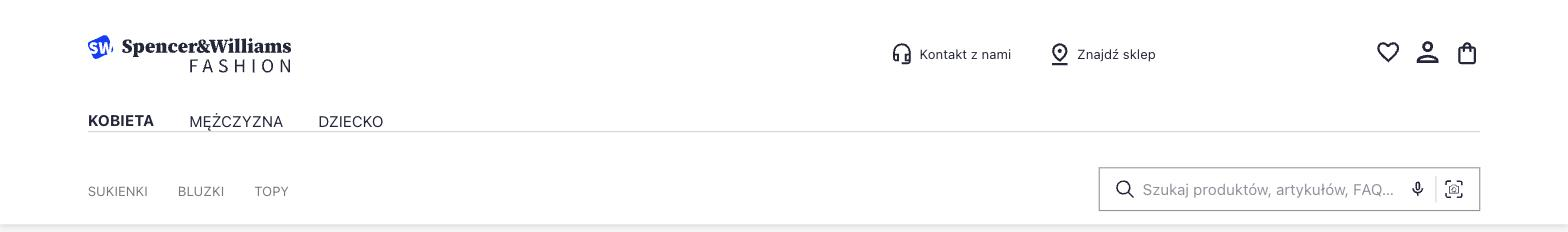
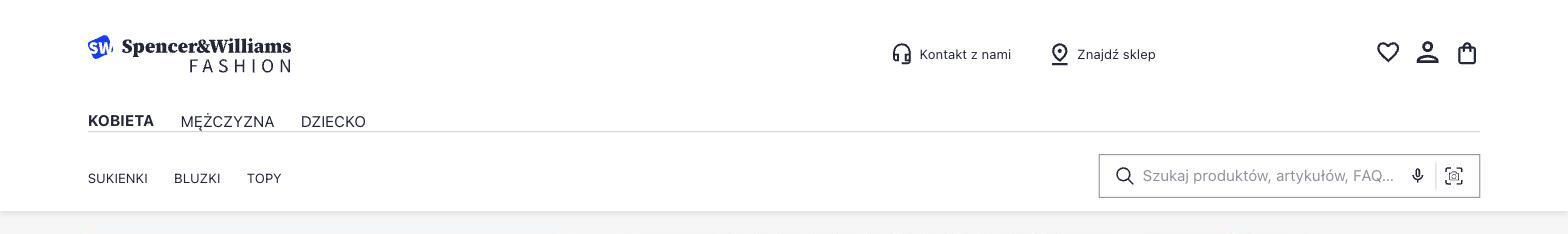
fix: align header spacing and mobile proportions with the design

diff --git a/prestashop/themes/designpresta/assets/css/header.css b/prestashop/themes/designpresta/assets/css/header.css
@@ -96,7 +96,7 @@
 .designmenu-modes__list {
   display: flex;
   align-items: center;
-  gap: var(--dp-space-32);
+  gap: var(--dp-space-24);
   margin: 0;
   padding: 0;
   list-style: none;
@@ -122,7 +122,7 @@
 }
 
 #header .header-top {
-  padding-top: var(--dp-space-32);
+  padding-top: var(--dp-space-20);
   padding-bottom: var(--dp-space-12);
 }
 
@@ -139,6 +139,15 @@
 
 #header .top-menu li a {
   padding-inline: var(--dp-space-12);
+}
+
+#header #top-menu {
+  display: flex;
+  align-items: center;
+}
+
+#header .header-top .category a {
+  color: var(--dp-color-neutral-black);
 }
 
 #header .category a {
@@ -293,7 +302,7 @@
 .header-top-mobile-trigger {
   display: flex;
   align-items: center;
-  gap: var(--dp-space-8);
+  gap: var(--dp-space-2);
   flex: 0 0 auto;
   padding: 0;
   border: 0;
@@ -469,11 +478,24 @@ body.dp-menu-is-open {
     border-bottom: 1px solid var(--dp-color-neutral-light);
   }
 
+  #header .header-top .container {
+    padding-inline: 0;
+  }
+
+  #header .header-top .container .row {
+    margin-inline: 0;
+  }
+
   #header .header-top .container .row .header-top-right {
     justify-content: flex-start;
-    gap: var(--dp-space-12);
+    gap: 10px;
     min-height: var(--dp-space-48);
-    padding-left: 15px;
+    padding-left: var(--dp-space-12);
+    padding-right: 0;
+  }
+
+  #header .header-top-mobile-separator {
+    margin-left: var(--dp-space-2);
   }
 
   #header .header-top #search_widget {
@@ -483,7 +505,7 @@ body.dp-menu-is-open {
   #header .header-top #search_widget form {
     border: none;
     background: none;
-    padding: var(--dp-space-2) 0 var(--dp-space-2) 0;
+    padding: var(--dp-space-2) var(--dp-space-16) var(--dp-space-2) 0;
   }
 
   #search_widget{
@@ -492,6 +514,7 @@ body.dp-menu-is-open {
 
   #header .header-top #search_widget form input[type="text"] {
     order: 1;
+    line-height: 18px;
   }
 
   #header .header-top #search_widget form i.search {

diff --git a/prestashop/themes/designpresta/assets/css/tokens.css b/prestashop/themes/designpresta/assets/css/tokens.css
@@ -60,6 +60,7 @@
   --dp-space-8: 8px;
   --dp-space-12: 12px;
   --dp-space-16: 16px;
+  --dp-space-20: 20px;
   --dp-space-24: 24px;
   --dp-space-32: 32px;
   --dp-space-40: 40px;
